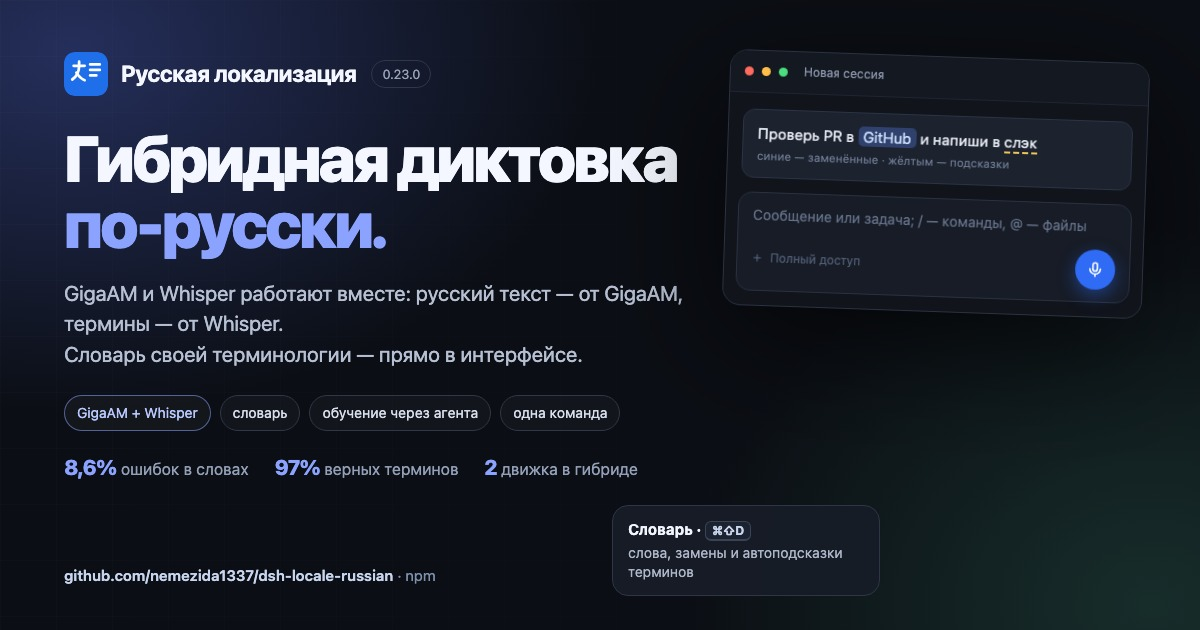
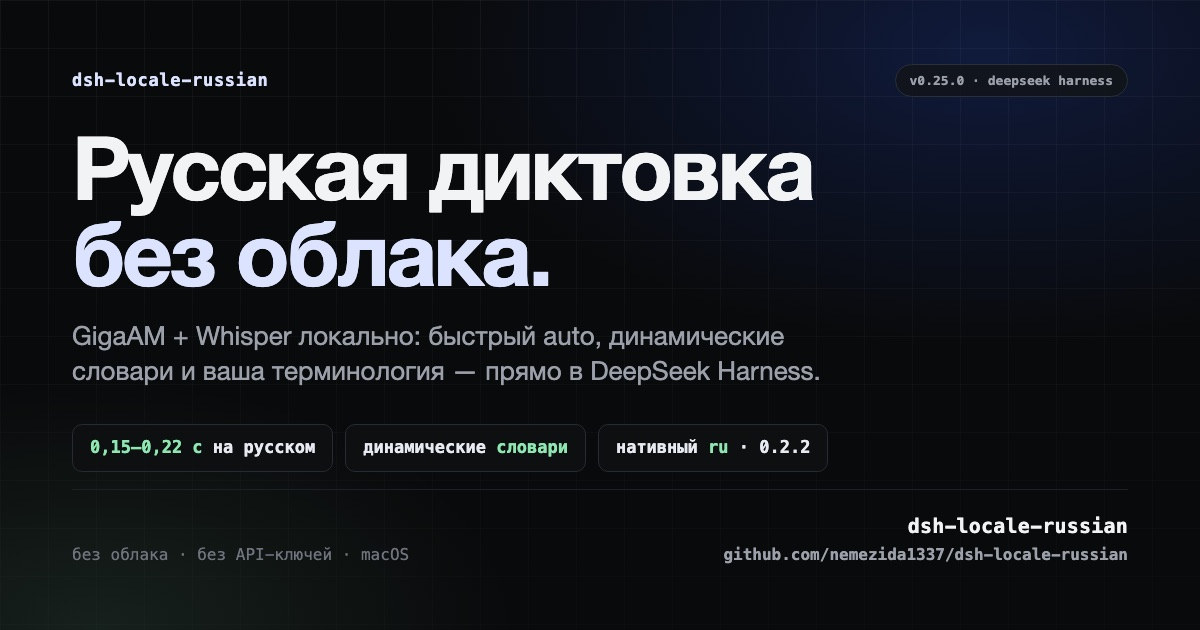
Релиз 0.25.0: версия, CHANGELOG, README, сайт и пост
- версия 0.25.0, CHANGELOG с итогами спринта (610 проверок)
- README: режим auto и задержки, динамические словари, статистика,
  восстановление диктовки, совместимость с DSH 0.2.2
- сайт: 0.25.0, новая карточка, блок «Что нового», FAQ про нативный ru
- market/index.json и history.json пересобраны под 0.25.0
- docs/RELEASE-0.25.0.md: release notes, черновики Threads и анонса,
  чек-лист выпуска (тег и публикация — после подтверждения)

diff --git a/site/index.html b/site/index.html
@@ -4,7 +4,7 @@
 <meta charset="utf-8">
 <meta name="viewport" content="width=device-width, initial-scale=1">
 <title>Русская локализация DeepSeek Harness — интерфейс и диктовка</title>
-<meta name="description" content="Русская локализация DeepSeek Harness: перевод интерфейса и описаний плагинов, локальная диктовка с гибридом GigaAM + Whisper, словарь своей терминологии и обучение через агента.">
+<meta name="description" content="Русская локализация DeepSeek Harness и локальная диктовка: режим auto (0,15–0,22 с на русском), динамические словари, статистика терминов, восстановление диктовки.">
 <meta name="theme-color" content="#090a0b">
 <link rel="canonical" href="https://nemezida1337.github.io/dsh-locale-russian/">
 <link rel="icon" href="icon.svg" type="image/svg+xml">
@@ -82,7 +82,7 @@
   .hero-art { display: flex; justify-content: center; }
   .window { position: relative; width: 100%; border: 1px solid #2a2e35; border-radius: 16px; padding: 7px; background: #050607; box-shadow: 0 34px 90px rgba(0,0,0,.55); }
   .window img { border-radius: 11px; }
-  .window::after { content: "0.23.0 · гибридная диктовка"; position: absolute; left: 18px; bottom: 18px; padding: 5px 7px; border: 1px solid rgba(255,255,255,.16); border-radius: 5px; background: rgba(5,6,7,.82); color: var(--muted); font: 9.5px/1 var(--mono); letter-spacing: .04em; }
+  .window::after { content: "0.25.0 · быстрая диктовка и словарь"; position: absolute; left: 18px; bottom: 18px; padding: 5px 7px; border: 1px solid rgba(255,255,255,.16); border-radius: 5px; background: rgba(5,6,7,.82); color: var(--muted); font: 9.5px/1 var(--mono); letter-spacing: .04em; }
   @media (max-width: 840px) {
     .hero { padding: 56px 0 50px; }
     .hero-grid { grid-template-columns: 1fr; gap: 36px; }
@@ -241,7 +241,7 @@
       <a href="#install">Установка</a>
       <a href="#guides">Гайды</a>
       <a href="https://github.com/nemezida1337/dsh-locale-russian">GitHub</a>
-      <a class="nav-cta" href="https://github.com/nemezida1337/dsh-locale-russian/releases/tag/v0.23.0">Релиз 0.23.0</a>
+      <a class="nav-cta" href="https://github.com/nemezida1337/dsh-locale-russian/releases/tag/v0.25.0">Релиз 0.25.0</a>
     </nav>
   </div>
 </header>
@@ -250,12 +250,12 @@
   <section class="hero">
     <div class="wrap hero-grid">
       <div>
-        <div class="eyebrow"><span class="dot"></span> DeepSeek Harness · версия 0.23.0</div>
+        <div class="eyebrow"><span class="dot"></span> DeepSeek Harness · версия 0.25.0</div>
         <h1>DeepSeek Harness<br><span>по-русски.</span></h1>
-        <p class="lead">Интерфейс, плагины и описания — по-русски. Плюс локальная диктовка с гибридом GigaAM + Whisper и словарём вашей терминологии. Без облака и ключей.</p>
+        <p class="lead">Локальная диктовка для DeepSeek Harness: режим auto за 0,15–0,22 с, динамические словари, статистика терминов. Интерфейс остаётся нативным русским, на старых версиях — наш перевод.</p>
         <div class="actions">
           <button class="button" type="button" data-open-dialog="plugin-install">Установить</button>
-          <a class="button outline" href="https://github.com/nemezida1337/dsh-locale-russian/releases/tag/v0.23.0">Релиз 0.23.0</a>
+          <a class="button outline" href="https://github.com/nemezida1337/dsh-locale-russian/releases/tag/v0.25.0">Релиз 0.25.0</a>
           <a class="button quiet" href="#guides">Гайды →</a>
         </div>
         <div class="meta">macOS · локально · без облака · <a href="https://www.npmjs.com/package/dsh-locale-russian">npm</a> · <a href="https://github.com/nemezida1337/dsh-locale-russian">open source</a></div>
@@ -288,9 +288,9 @@
         <p>Обычный клиентский плагин DSH: добавляет язык <code>ru</code> и локального провайдера распознавания. Не форк — ничего не патчит в приложении.</p>
       </div>
       <div class="device-line">
-        <article><h3>Перевод интерфейса</h3><p>3929 строк в 75 namespace: панели, настройки, диалоги, карточки инструментов и ошибки UI. Русские склонения из коробки.</p></article>
-        <article><h3>Гибридная диктовка</h3><p>GigaAM и Whisper работают параллельно: русский текст от GigaAM, термины от Whisper. 8,6% ошибок в словах, 97% терминов.</p></article>
-        <article><h3>Словарь и агент</h3><p>Окно словаря по Cmd+Shift+D, автоподсказки из диктовок и обучение через чат: «дообучи на моей терминологии».</p></article>
+        <article><h3>Быстрая диктовка</h3><p>Режим auto: GigaAM за 0,15–0,22 с на обычном русском, Whisper — только на терминах и транслитерациях. Тёплый сервер и предзагрузка.</p></article>
+        <article><h3>Словарь, который знает вас</h3><p>Динамические профили, статистика пользы ×N, Retention-чистка и импорт по URL. Лимит 400 слов на словарь, а не на всё.</p></article>
+        <article><h3>DSH 0.2.2 и старые версии</h3><p>Нативный русский не перезаписываем — плагин определяет его сам. На старых DSH работает собственный полный перевод.</p></article>
       </div>
       <div class="shots">
         <figure class="shot"><img src="card.jpg" alt="Гибридная диктовка по-русски" loading="lazy"><span>Гибридная диктовка · подсветка терминов</span></figure>
@@ -304,16 +304,16 @@
   <section class="section" id="whats-new">
     <div class="wrap">
       <div class="section-head">
-        <div><div class="label">Что нового</div><h2>0.23.0 — гибрид и словарь.</h2></div>
-        <p>Главное обновление: диктовка понимает ваши термины и учится у вас. Полный список — в <a href="https://github.com/nemezida1337/dsh-locale-russian/blob/main/CHANGELOG.md">CHANGELOG</a>.</p>
+        <div><div class="label">Что нового</div><h2>0.25.0 — скорость и динамические словари.</h2></div>
+        <p>Главное обновление: диктовка отвечает быстрее и знает вашу терминологию. Полный список — в <a href="https://github.com/nemezida1337/dsh-locale-russian/blob/main/CHANGELOG.md">CHANGELOG</a>.</p>
       </div>
       <div class="roadmap">
-        <div class="road"><span class="label">Движок</span><h3>Второй движок — Whisper</h3><p>GigaAM и Whisper вместе, посентенционное слияние. Словарь передаётся обоим: GigaAM через hotwords, Whisper через prompt.</p></div>
-        <div class="road"><span class="label">Словарь</span><h3>Окно словаря</h3><p>Cmd+Shift+D: слова и замены, поиск, добавление, импорт из буфера, переключение движка и стратегии слияния.</p></div>
-        <div class="road"><span class="label">Текст</span><h3>Подсветка и правка</h3><p>Заменённые термины — синим, подсказки — жёлтым. Клик по слову открывает варианты и «Вернуть как было».</p></div>
-        <div class="road"><span class="label">Агент</span><h3>Обучение через чат</h3><p>Секция «Предложения» находит искажённые термины в последних диктовках, а кнопка «Попросить агента» копирует запрос.</p></div>
-        <div class="road"><span class="label">Установка</span><h3>Одна команда</h3><p>Встроенный Whisper без Homebrew, модель с прогрессом и настройка гибрида. Откат — <code>--revert</code>.</p></div>
-        <div class="road"><span class="label">Перевод</span><h3>Описания плагинов</h3><p>358 описаний переписаны по-человечески, без «швов» и «каскадов». «Развёртывание» заменено на «установку».</p></div>
+        <div class="road"><span class="label">Скорость</span><h3>Режим auto</h3><p>Русская речь — GigaAM за 0,15–0,22 с. Whisper подключается только на английских терминах, транслитерациях или низкой уверенности.</p></div>
+        <div class="road"><span class="label">Длинные записи</span><h3>Пунктуация и абзацы</h3><p>Аудио режется по тихим точкам, prompt Whisper — «Термины: …», предложения выравниваются по смыслу: точки на месте, абзацы не теряются.</p></div>
+        <div class="road"><span class="label">Словарь</span><h3>Динамические профили</h3><p>Работа, проект, личное: переключение вручную и автоматически, лимит 400 слов на словарь, активный профиль прямо в окне.</p></div>
+        <div class="road"><span class="label">Польза</span><h3>Статистика ×N</h3><p>Видно, какие термины реально спасают распознавание. Retention-чистка неиспользуемых слов с предпросмотром и «Вернуть».</p></div>
+        <div class="road"><span class="label">Совместимость</span><h3>DSH 0.2.2</h3><p>Нативный русский язык не перезаписывается: стоковые плагины загружаются нормально. На старых версиях — свой полный перевод.</p></div>
+        <div class="road"><span class="label">Надёжность</span><h3>Восстановление диктовки</h3><p>Если текст не попал в поле ввода, появляется панель «Вставить / Скопировать» — диктовка больше не пропадает.</p></div>
       </div>
     </div>
   </section>
@@ -333,7 +333,7 @@
             <div class="step"><p><strong>Слияние по предложениям</strong> — для каждого предложения выбирается вариант с лучшей оценкой: термины из словаря минус искажённая латиница.</p></div>
             <div class="step"><p><strong>Словарь — обоим движкам</strong> — термины из проекта работают и в GigaAM, и в Whisper, а замены исправляют устойчивые ошибки.</p></div>
           </div>
-          <p class="note">На корпусе из 10 смешанных фраз: <strong>8,6% ошибок в словах</strong> и <strong>97% верных терминов</strong>. Для сравнения: у GigaAM было 27,7%, у Whisper — 11,3%.</p>
+          <p class="note">На корпусе из 10 смешанных фраз: <strong>8,6% ошибок в словах</strong> и <strong>98% верных терминов</strong>. Для сравнения: у GigaAM было 27,7%, у Whisper — 11,3%. В режиме auto русская фраза обрабатывается за 0,15–0,22 с.</p>
         </div>
       </div>
     </div>
@@ -376,6 +376,7 @@
         <details open><summary>Диктовка правда работает без облака?</summary><p>Да. GigaAM и Whisper работают локально, аудио не покидает машину. Для распознавания не нужны API-ключи.</p></details>
         <details><summary>Какие лимиты у словаря?</summary><p>До 400 слов и фраз (каждое до 64 символов), замены — без жёсткого счётчика, при сканировании проекта берутся до 150 терминов. Подсказка Whisper использует первые 60 терминов.</p></details>
         <details><summary>Нужен ли Homebrew для Whisper?</summary><p>Нет: установщик кладёт встроенный prebuilt-бинарь. Если он недоступен — попробует Homebrew, а если и его нет, останется GigaAM.</p></details>
+        <details><summary>DSH 0.2.2 уже переведён на русский. Зачем плагин?</summary><p>Для диктовки и словаря — это основная ценность. Переводу плагин не мешает: он определяет нативный русский и не регистрирует свои словари, поэтому стоковые плагины загружаются нормально. На старых версиях DSH работает собственный полный перевод.</p></details>
         <details><summary>Это официальный плагин DeepSeek?</summary><p>Нет. Это неофициальная локализация и локальная диктовка; она не связана с DeepSeek и не заменяет DSH.</p></details>
       </div>
     </div>
@@ -411,7 +412,7 @@
     <p class="small"><strong>Без терминала:</strong> добавьте индекс в «Плагины → Обзор → Источники индексов» и установите из карточки.</p>
     <div class="cmd-row"><pre><code id="cmd-market">https://nemezida1337.github.io/dsh-locale-russian/index.json</code></pre><button class="copy" data-copy="cmd-market" type="button">Копировать</button></div>
     <div class="os-links" aria-label="Скачать DeepSeek Harness"><a href="https://www.deepseek.com/harness/">macOS</a><a href="https://www.deepseek.com/harness/">Windows</a><a href="https://www.deepseek.com/harness/">Linux / web</a></div>
-    <div class="dialog-actions"><a class="button" href="https://github.com/nemezida1337/dsh-locale-russian/releases/tag/v0.23.0">Релиз 0.23.0</a><button class="button outline" type="button" data-copy-id="cmd-dialog">Скопировать команду</button><button class="button outline" type="button" data-close-dialog>Готово</button></div>
+    <div class="dialog-actions"><a class="button" href="https://github.com/nemezida1337/dsh-locale-russian/releases/tag/v0.25.0">Релиз 0.25.0</a><button class="button outline" type="button" data-copy-id="cmd-dialog">Скопировать команду</button><button class="button outline" type="button" data-close-dialog>Готово</button></div>
   </div>
 </dialog>
 

diff --git a/README.md b/README.md
@@ -2,6 +2,8 @@
 
 Русская локализация web-интерфейса [DeepSeek Harness](https://github.com/deepseek-ai/deepseek-harness) — и русский голосовой ввод в комплекте: распознавание речи работает локально, без облака и API-ключей.
 
+В DSH 0.2.2 появился **нативный русский язык**. Плагин это определяет и не перезаписывает нативные словари (иначе ломается загрузка стоковых плагинов); на более старых версиях работает собственный полный перевод. Сравнение и стратегия — в [docs/NATIVE-RU.md](docs/NATIVE-RU.md).
+
 [![checks](https://github.com/nemezida1337/dsh-locale-russian/actions/workflows/ci.yml/badge.svg)](https://github.com/nemezida1337/dsh-locale-russian/actions/workflows/ci.yml)
 [![npm](https://img.shields.io/npm/v/dsh-locale-russian.svg)](https://www.npmjs.com/package/dsh-locale-russian)
 [![npm downloads](https://img.shields.io/npm/dw/dsh-locale-russian.svg)](https://www.npmjs.com/package/dsh-locale-russian)
@@ -41,11 +43,15 @@ dsh plugin --profile web add dsh-locale-russian
 | Возможность | Что именно |
 |---|---|
 | Перевод интерфейса | 4096 строк в 77 namespace: панели, настройки, диалоги, карточки инструментов, подсказки, ошибки UI, единицы измерения и форматы дат |
-| Описания плагинов | 555 строк: названия и описания карточек в разделе «Встроенные плагины» и в обзоре плагинов |
+| Описания плагинов | 564 строки: названия и описания карточек в разделе «Встроенные плагины» и в обзоре плагинов |
 | Русские склонения | формы выбираются по `Intl.PluralRules('ru')`, а не по английскому правилу «1 или много» |
 | Голосовой ввод | локальный распознаватель **GigaAM v3** для штатного голосового ввода: аудио не покидает машину, ключи не нужны, ставится одной кнопкой |
 | Терминология | единый глоссарий ([GLOSSARY.md](GLOSSARY.md)) и правила стиля ([STYLE.md](STYLE.md)), проверяемые линтером |
-| Гибридная диктовка | **GigaAM + Whisper** параллельно: русский текст от GigaAM, английские термины от Whisper. На смешанной речи — 8,6% ошибок в словах и 97% верных терминов |
+| Быстрая диктовка | Режим **`auto`**: GigaAM отвечает за **0,15–0,22 с** на обычном русском, Whisper подключается только на английских терминах и транслитерациях. Тёплый `whisper-server` и предзагрузка движков |
+| Гибридная диктовка | **GigaAM + Whisper**: на корпусе — **8,6% ошибок в словах** и **98% верных терминов**; длинные записи режутся по паузам, prompt Whisper в формате «Термины: …» |
+| Динамические словари | Профили «работа / проект / личное», переключение из окна словаря и автоматически по контексту; лимит 400 слов на словарь, а не на всё |
+| Статистика и чистка | Счётчики `×N` у слов и замен, retention неиспользуемых слов с предпросмотром и «Вернуть», импорт словаря по URL |
+| Восстановление диктовки | Если транскрипт не попал в поле ввода — панель «Вставить / Скопировать», текст хранится 30 минут |
 | Словарь в интерфейсе | окно по **Cmd/Ctrl+Shift+D**: слова и замены, поиск, добавление, импорт из буфера, переключение движка и стратегии слияния |
 | Подсветка и правка | заменённые термины подсвечиваются синим, подсказки — жёлтым; клик по слову открывает варианты и «Вернуть как было» |
 | Обучение через агента | попросите в чате «дообучи на моей терминологии» — агент добавит слова и замены и объяснит, как пользоваться |
@@ -56,17 +62,16 @@ dsh plugin --profile web add dsh-locale-russian
 
 Строки сняты из трёх источников: клиентских пакетов установленного приложения (`app.asar`), CLI-сборки и репозитория. Пропущенных ключей нет — актуальные цифры и разбивка по namespace на [дашборде покрытия](https://nemezida1337.github.io/dsh-locale-russian/dashboard.html).
 
-## Что нового в 0.23.0
+## Что нового в 0.25.0
 
-**Гибридный движок и словарь, которым удобно пользоваться.**
+**Скорость, динамические словари и совместимость с DSH 0.2.2.**
 
-- **Второй движок:** Whisper рядом с GigaAM, посентенционное слияние. На корпусе из 10 смешанных фраз — **8,6% ошибок в словах** и **97% терминов** (у GigaAM было 27,7%, у Whisper — 11,3%).
-- **Словарный prompt для Whisper:** термины из проекта получают оба движка — GigaAM через hotwords, Whisper через `--prompt`.
-- **Окно словаря** (Cmd/Ctrl+Shift+D): секции «Слова» и «Замены», поиск, добавление, импорт из буфера, секция «Движок» и автоподсказки из последних диктовок.
-- **Подсветка в тексте:** синие заменённые термины, жёлтые подсказки, клик — варианты и «Вернуть».
-- **Установщик одной командой** ставит встроенный Whisper без Homebrew, модель и настраивает гибрид; `--revert` возвращает профиль.
-- **Гайды:** [словарь](docs/DICTIONARY.md), [замены](docs/REPLACEMENTS.md), [тюнинг через агента](docs/COACHING.md).
-- **Локализация плагинов:** 358 описаний переписаны адаптивно, без «швов» и «каскадов».
+- **Режим `auto` по умолчанию:** GigaAM ~0,15–0,22 с на русском; Whisper — только на английских терминах, транслитерациях и низкой уверенности. Тёплый `whisper-server`, предзагрузка обоих движков.
+- **Длинные диктовки:** нарезка аудио по тихим точкам, prompt «Термины: …», выравнивание предложений по смыслу — пунктуация восстановлена, абзацы не теряются.
+- **Динамические словари:** профили контекста, лимит 400 на словарь, автопереключение, статистика пользы, retention-чистка, импорт по URL.
+- **DSH 0.2.2:** нативный русский больше не перезаписывается — плагин не мешает стоковым плагинам и корректно работает на новых и старых версиях.
+- **Восстановление диктовки:** панель «Вставить / Скопировать», если текст не попал в поле ввода.
+- Подробности — в [CHANGELOG.md](https://github.com/nemezida1337/dsh-locale-russian/blob/main/CHANGELOG.md). Гайды: [словарь](docs/DICTIONARY.md), [замены](docs/REPLACEMENTS.md), [тюнинг через агента](docs/COACHING.md).
 
 ## Как выглядит
 
@@ -113,7 +118,7 @@ npx dsh-locale-russian-install --desktop
 
 **Без терминала:** включите «Пользовательские рынки плагинов» на странице «Плагины», откройте вкладку «Обзор» → «Источники индексов», добавьте адрес `https://nemezida1337.github.io/dsh-locale-russian/index.json` и установите пакет из «Обзора».
 
-**Вручную:** добавьте `"dsh-locale-russian": "^0.24.0"` в `~/.dsh/profiles/desktop/package.json` и `dsh-locale-russian` в его `dsh.profile.bundles`, затем выполните `pnpm add dsh-locale-russian` в каталоге профиля. pnpm лежит внутри приложения: `…/DeepSeek Harness.app/Contents/Resources/runtime/primary-runtime/dependencies/pnpm/bin/pnpm.mjs`.
+**Вручную:** добавьте `"dsh-locale-russian": "^0.25.0"` в `~/.dsh/profiles/desktop/package.json` и `dsh-locale-russian` в его `dsh.profile.bundles`, затем выполните `pnpm add dsh-locale-russian` в каталоге профиля. pnpm лежит внутри приложения: `…/DeepSeek Harness.app/Contents/Resources/runtime/primary-runtime/dependencies/pnpm/bin/pnpm.mjs`.
 
 **Строкой патча** — когда нужна живая рабочая копия: возьмите копию репозитория в постоянное место и добавьте в `~/.dsh/profiles/desktop/cordis.patch.yml`, сохранив остальные записи:
 

diff --git a/CHANGELOG.md b/CHANGELOG.md
@@ -1,8 +1,16 @@
 # История изменений
 
-## Unreleased
+## 0.25.0 — 2026-11-06
 
-**Спринт словаря и подсветки**
+**Быстрая русская диктовка, динамические словари и совместимость с DSH 0.2.2**
+
+- **Режим `auto` по умолчанию:** GigaAM отвечает за ~0,15–0,22 с на обычном русском, Whisper подключается только на английских терминах, транслитерациях («гейтхэп» → GitHub) или низкой уверенности. Тёплый `whisper-server`, предзагрузка обоих движков.
+- **Длинные диктовки:** нарезка аудио по тихим точкам, prompt Whisper в формате «Термины: …», выравнивание предложений по смыслу — пунктуация восстановлена, абзацы не теряются.
+- **Словарь-продукт:** динамические профили (работа/проект/личное) с автопереключением, статистика пользы `×N`, retention-чистка с «Вернуть», импорт по URL, активный словарь прямо в окне.
+- **Совместимость с DSH 0.2.2:** нативный русский язык больше не перезаписывается — плагин определяет его и не ломает boot стоковых плагинов. На старых версиях перевод работает как раньше.
+- **Восстановление диктовки:** если текст не попал в поле ввода, появляется панель «Вставить / Скопировать».
+- Безопасность: CSRF-заголовок, валидация профилей, SSRF-защита импорта, защита словаря от инъекции маркеров.
+- Тесты: **610 проверок**; приложение 0.2.2-rc.1 — покрытие полное.
 
 - Подсветка больше не «скачет»: рисуется только внутри свежей вставки диктовки, не подсвечивает старый текст, проверяет свежесть `/last-transcription`, пересчитывает позиции при скролле/ресайзе и снимается при вводе или клике мимо.
 - Очередь авто-обучения: пары, выученные автоматически, попадают в секцию «Авто-выучено» с кнопками «Оставить»/«Убрать» и «Оставить все» (`GET /review`, `POST /review/keep`, `POST /review/forget`).
@@ -26,7 +34,7 @@
 - **Качество распознавания**: обрезка тишины перед движком (быстрее и точнее, слова сдвигаются назад по таймлайну), нормализация пунктуации и заглавных без LLM, динамический prompt Whisper с кэшированием (свежие авто-пары и латинские термины приоритетнее).
 - **Настройки диктовки**: одно окно (Cmd/Ctrl+Shift+,) — движок и стратегия, авто-обучение вкл/выкл, подготовка модели с прогрессом, «доктор» (проверка движка/модели/Whisper/словаря/очереди/настроек), лимиты и статус словаря; онбординг первого запуска.
 - **Безопасность**: локальный сервер словаря отклоняет cross-site запросы (`Sec-Fetch-Site: cross-site` с непустым Origin) и чужие `Host` — чужой сайт не может прочитать последнюю диктовку или писать в словарь.
-- Тесты: 608 проверок (подсветка: вставка в середину, несколько диктовок, переносы; очередь проверки; фильтры; inline-редактирование; импорт; обрывки).
+- Тесты: 610 проверок (подсветка: вставка в середину, несколько диктовок, переносы; очередь проверки; фильтры; inline-редактирование; импорт; обрывки).
 
 ## 0.24.0
 
@@ -38,11 +46,6 @@
 - Whisper-ветка отдаёт `words: []`; в hybrid тайминги всегда от GigaAM-ветки (`wordsSource: "gigaam"`), итоговый текст может отличаться — клиентам важны границы окон речи.
 - Зафиксированы интеграционные контракты для Chronoflow: порты `47118–47122`, CORS `*`, `at` (epoch ms), `[data-voice-activity]` (`recording`/`transcribing`/`feedback`/`idle`), keep-alive диктовки, идемпотентность патчей `MediaRecorder`/`EventTarget`.
 - Тесты: слова и тайминги в endpoint, whisper/hybrid, отбрасывание невалидных слов (`start == end` сохраняется), неизменность старых полей.
-
-## Unreleased
-
-- **Сайт плагина:** https://nemezida1337.github.io/dsh-locale-russian/ — возможности, установка, гайды; дашборд покрытия переехал на `/dashboard.html`.
-- README обновлён: гибридная диктовка, словарь в интерфейсе, подсветка, обучение через агента, установка одной командой.
 
 ## 0.23.0
 

diff --git a/docs/RELEASE-0.25.0.md b/docs/RELEASE-0.25.0.md
@@ -1,0 +1,59 @@
+# Релиз 0.25.0 — быстрая диктовка и динамические словари
+
+**Дата:** 2026-11-06 · **Тесты:** 610 · **Покрытие DSH 0.2.2-rc.1:** полное
+
+## Что нового
+
+- **Режим `auto` по умолчанию.** GigaAM отвечает за **0,15–0,22 с** на обычном русском; Whisper подключается только на английских терминах, транслитерациях и при низкой уверенности. Тёплый `whisper-server` (~0,7 с вместо ~1,1 с), предзагрузка обоих движков.
+- **Длинные диктовки без потерь.** Аудио режется по тихим точкам, prompt Whisper — «Термины: …», предложения выравниваются по смыслу: пунктуация восстановлена, абзацы не теряются.
+- **Словарь-продукт.** Динамические профили (работа / проект / личное) с автопереключением, лимит 400 слов на словарь, статистика пользы `×N`, retention-чистка с «Вернуть», импорт по URL, активный профиль прямо в окне.
+- **Совместимость с DSH 0.2.2.** Приложение везёт нативный русский язык: плагин определяет это и больше не переписывает словари — стоковые плагины загружаются нормально. На старых DSH перевод работает как раньше.
+- **Восстановление диктовки.** Если транскрипт не попал в поле ввода, появляется панель «Вставить / Скопировать»; текст живёт 30 минут.
+- **Надёжность и безопасность.** CSRF-заголовок, валидация профилей, SSRF-защита импорта, защита словаря от инъекции маркеров, гонки закрытия окон.
+
+## Установка
+
+```sh
+npx dsh-locale-russian-install --desktop
+```
+
+Перезапустите приложение. Для веб-профиля: `dsh plugin --profile web add dsh-locale-russian`. Индекс для установки без терминала: `https://nemezida1337.github.io/dsh-locale-russian/index.json`.
+
+## Ссылки
+
+- Сайт: https://nemezida1337.github.io/dsh-locale-russian/
+- GitHub: https://github.com/nemezida1337/dsh-locale-russian
+- CHANGELOG: https://github.com/nemezida1337/dsh-locale-russian/blob/main/CHANGELOG.md
+- Сравнение с нативным ru: https://github.com/nemezida1337/dsh-locale-russian/blob/main/docs/NATIVE-RU.md
+
+---
+
+## Пост в Threads (черновик)
+
+Готово: русская диктовка для DeepSeek Harness стала быстрой.
+
+Режим auto: GigaAM отвечает за 0,15–0,22 с, Whisper подключается только на английских терминах. Динамические словари (работа/проект/личное), статистика пользы терминов и чистка неиспользуемых слов. Длинные диктовки больше не теряют абзацы.
+
+DSH 0.2.2 уже с нативным русским — плагин это учитывает и не ломает загрузку. На старых версиях работает свой полный перевод.
+
+Установка: npx dsh-locale-russian-install --desktop
+Сайт: https://nemezida1337.github.io/dsh-locale-russian/
+
+#DeepSeekHarness #диктовка #ru
+
+## Анонс в сообществе DeepSeek Harness (черновик)
+
+Обновил русскую локализацию и диктовку для DSH: **0.25.0**.
+Главное: быстрый режим auto (0,15–0,22 с на русском), динамические словари с контекстами и статистикой, длинные диктовки с восстановленной пунктуацией. На 0.2.2 плагин больше не конфликтует с нативным русским языком.
+Установка: `npx dsh-locale-russian-install --desktop`. Индекс плагинов: `https://nemezida1337.github.io/dsh-locale-russian/index.json`.
+
+## Чек-лист выпуска
+
+1. `npm test` — 610 проверок зелёные.
+2. `node tools/check-app.mjs` — покрытие полное, хук диктовки совместим.
+3. Коммит `Релиз 0.25.0` и пуш в `main` (сайт задеплоится автоматически).
+4. Тег `v0.25.0` и пуш тега — workflow соберёт, проверит и опубликует npm.
+5. GitHub Release с этими заметками (приложить `site/card.jpg`).
+6. Пост в Threads с карточкой `site/card.jpg`.
+7. Анонс в обсуждении DeepSeek Harness.
+8. Проверить установку: `npx dsh-locale-russian-install --desktop` на чистом профиле.
